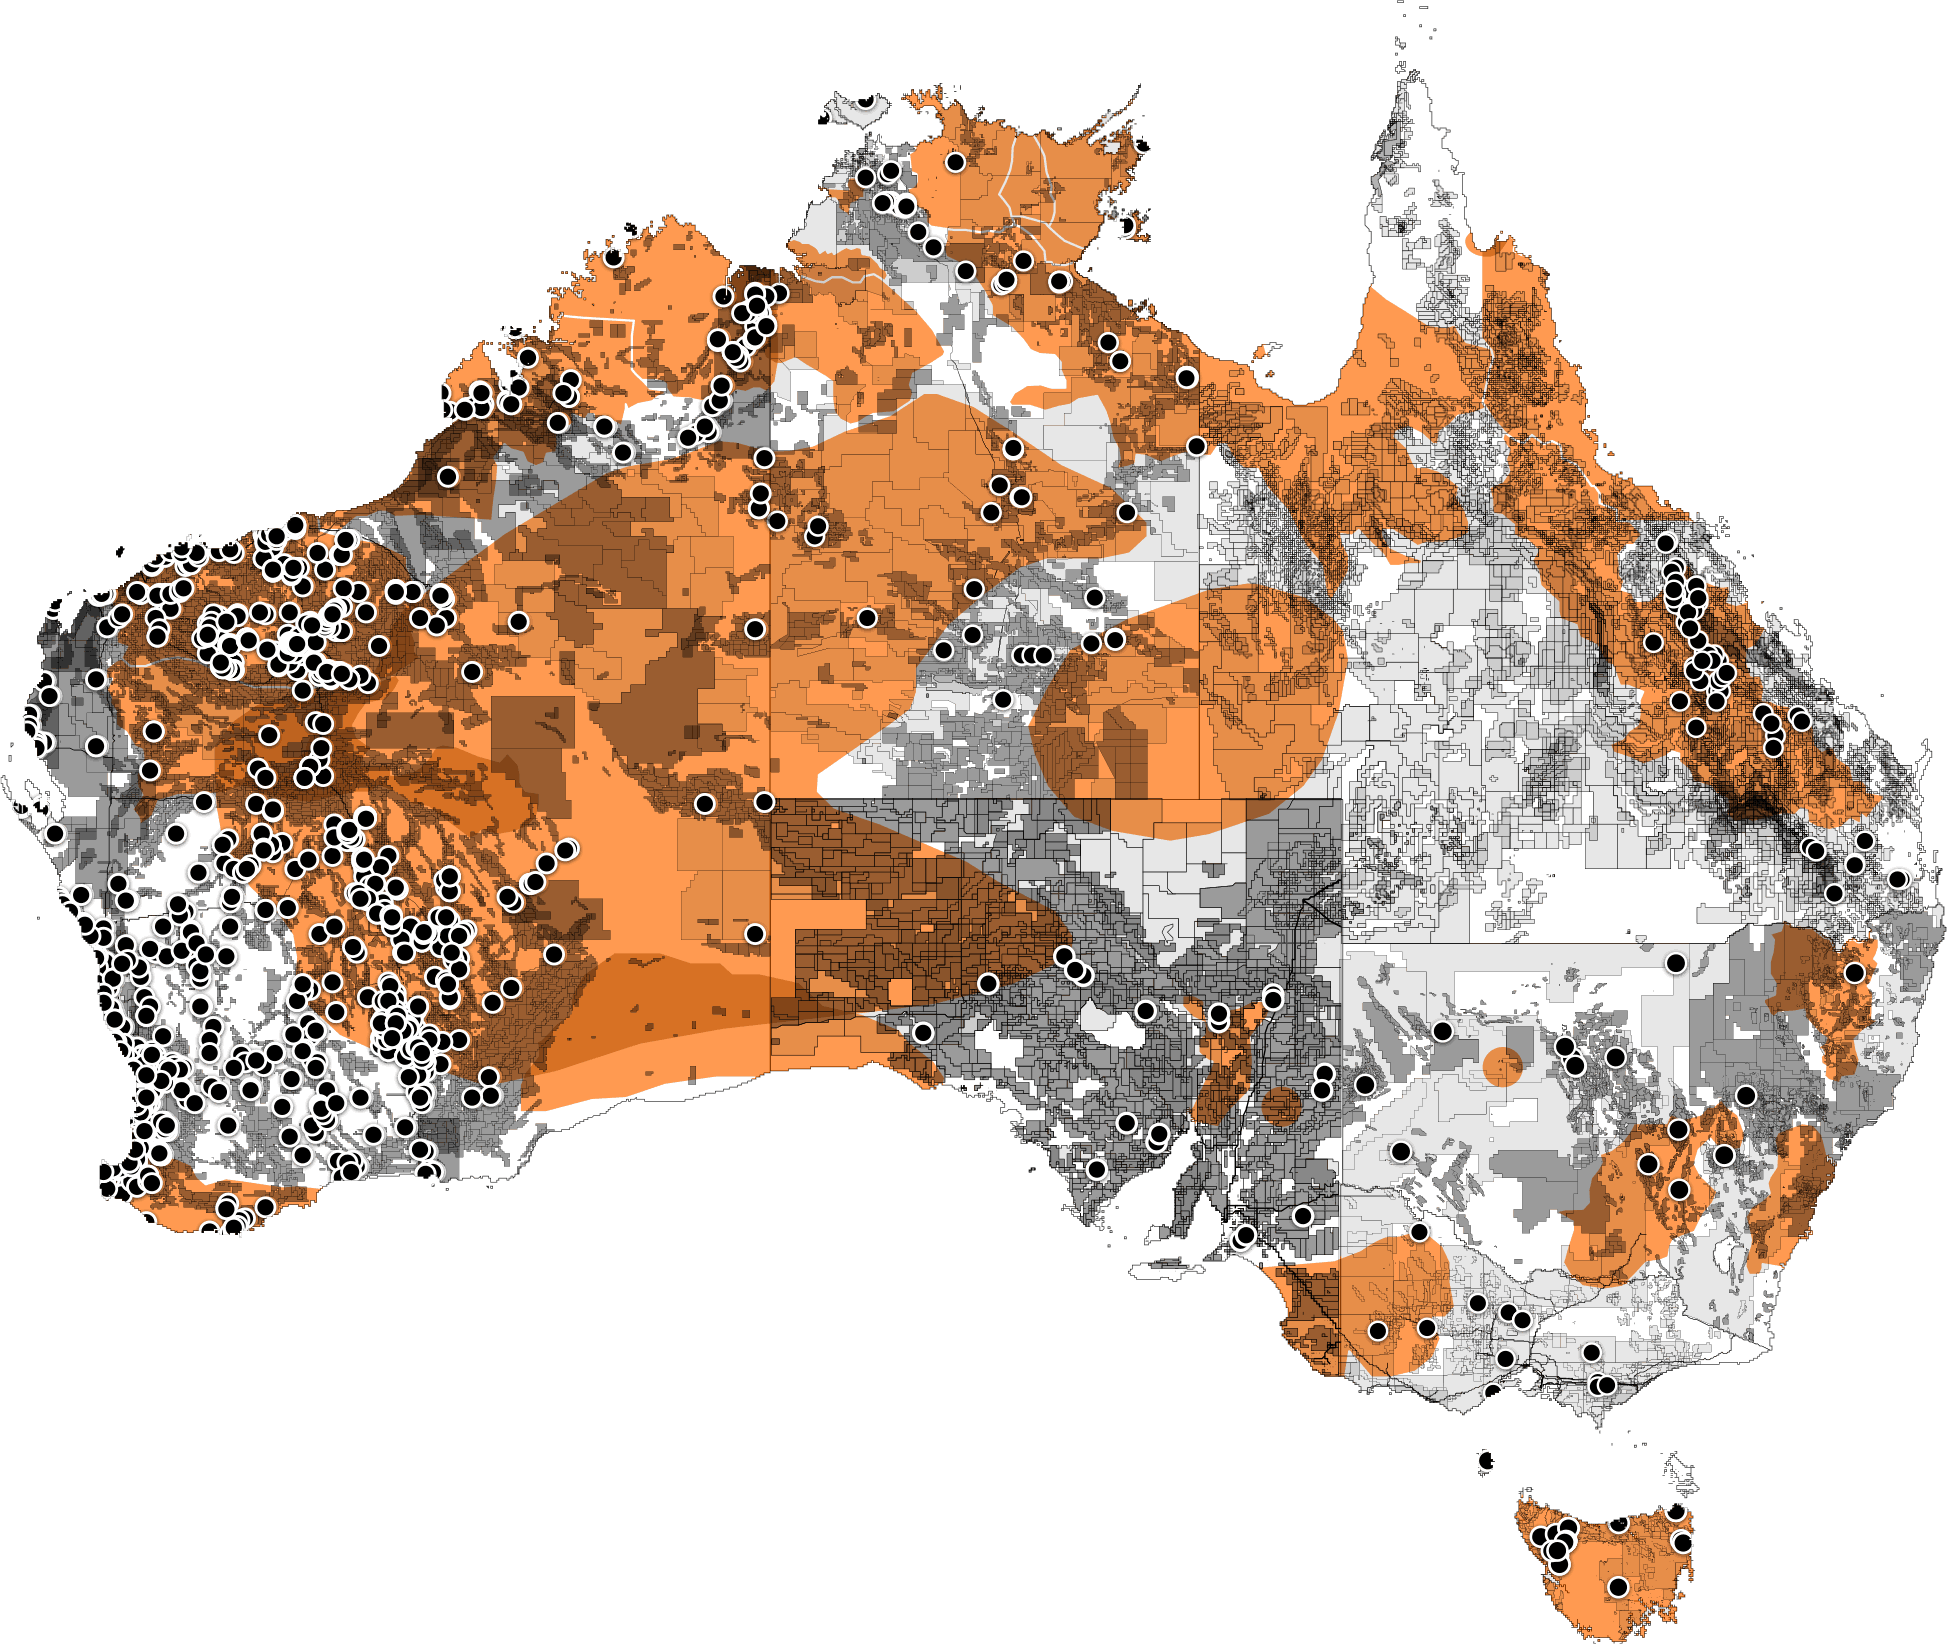
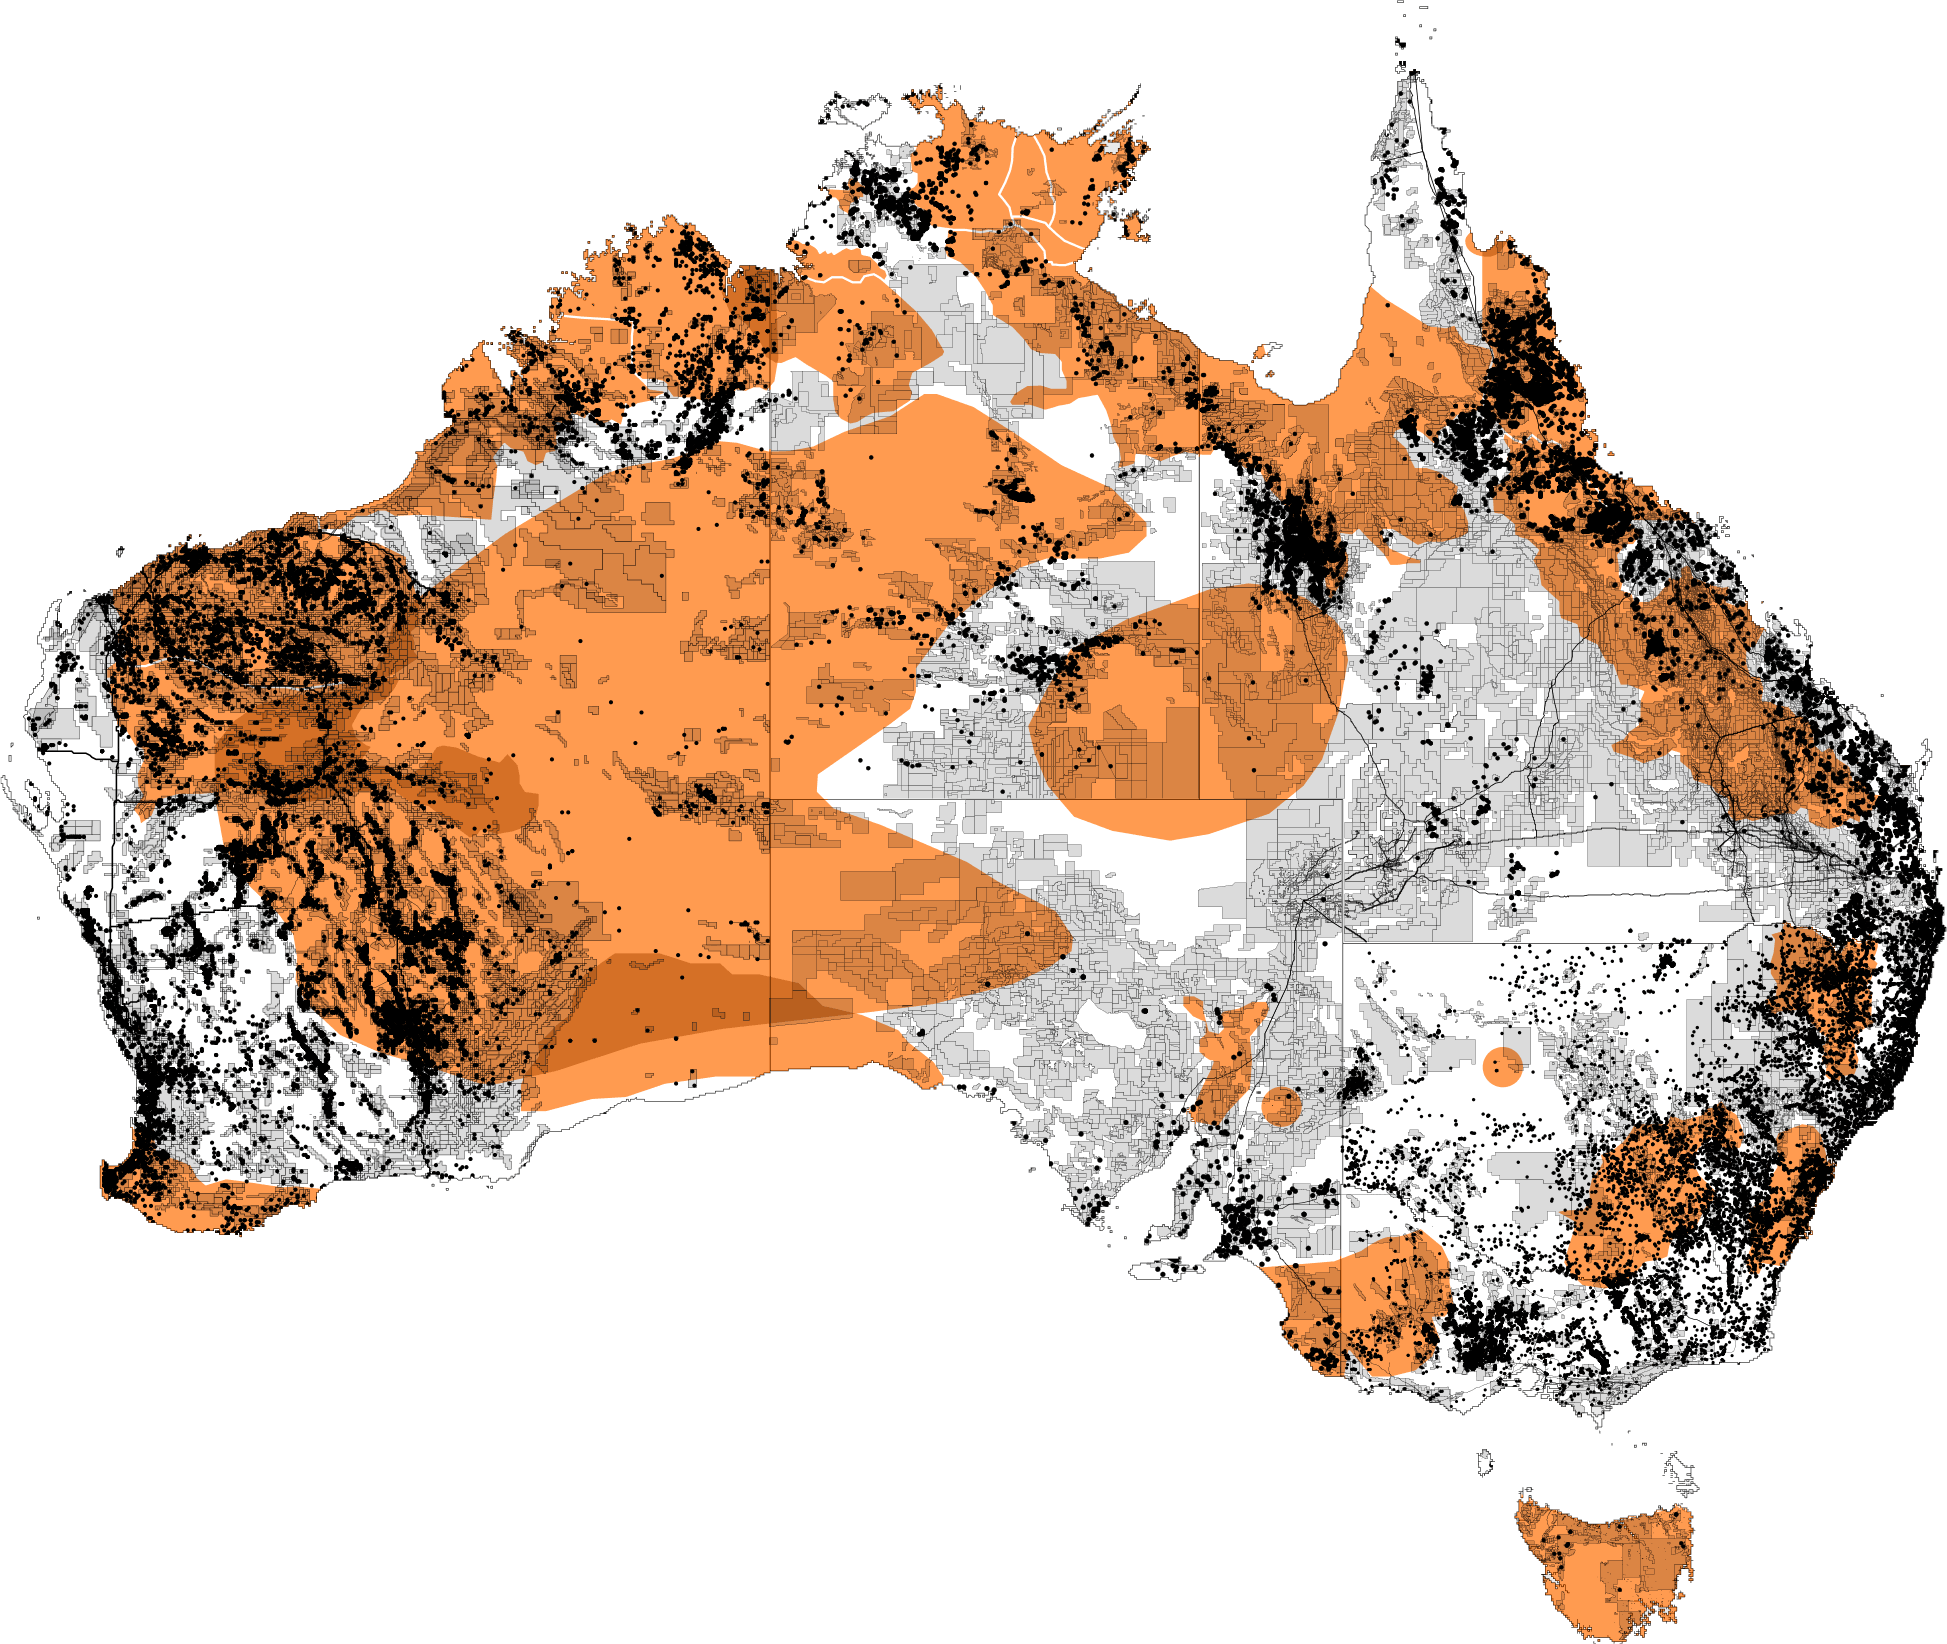
New maps, some tweaks

Changed region(s): [[0.0, 0.031, 1.0, 0.8686], [0.7704, 0.8996, 0.8937, 0.9927]]

diff --git a/app/index.html b/app/index.html
@@ -62,7 +62,10 @@
           <div class="container">
             <div class="row">
               <div class="span12 slider-content">
-                <h2>Rock art regions of Australia</h2>
+                <div class="rock-art-overlay">
+                  <h2>Rock art regions of Australia</h2>
+                  <h3>Overlapping areas indicate...?</h3>
+                </div>
                 <img src="/images/map-rock-art.png" alt="A map of Australian Rock art regions" class="map">
               </div>
             </div>
@@ -100,7 +103,7 @@
         <div class="map-legend">
           <ul>
             <li class="rock-art">Rock Art Areas <sup><a href="">1</a></sup></li>
-            <li class="mines">Mines <sup><a href="">2</a></sup></li>
+            <li class="mines">Mines &amp; Deposits <sup><a href="">2</a></sup></li>
             <li class="pipes">Pipelines <sup><a href="">3</a></sup></li>
             <li class="leases">Leases and Licenses <sup><a href="">4</a></sup></li>
           </ul>
@@ -121,10 +124,10 @@
       <p>Due to the inconsistencies in the data available between states we have tried to limit what we displayed to what is common across data sets. We have not shown Application boundaries as they are not necessarily inidicative of actual mining activity.</p>
 
       <ol>
-        <li>Rock Art Areas: Includes ? </li>
-        <li>Mines: Includes all Operating Mines, Quarries, Known Deposits and ? </li>
-        <li>Pipelines: Includes all Petroleum, Liquids, and Gas pipelines.</li>
-        <li>Leases and Licences: Includes tenements, claims, leases, licenses etc ?</li>
+        <li><strong>Rock Art Areas:</strong> Includes ? </li>
+        <li><strong>Mines &amp; Deposits:</strong> Includes all Operating Mines, Quarries, Known Deposits and ? </li>
+        <li><strong>Pipelines:</strong> Includes all Petroleum, Liquids, and Gas pipelines.</li>
+        <li><strong>Leases and Licences:</strong> Includes tenements, claims, leases, licenses etc ?</li>
       </ol>
 
       <h4>Sources of mining data</h4>

diff --git a/app/styles/responsive.less b/app/styles/responsive.less
@@ -13,11 +13,14 @@
           margin-top: 70px;
         }
       &.left {
-        h2 {
-            top:20px;
-            width: 240px;
-            margin-left: 0;
-          }
+        .rock-art-overlay {
+          top:20px;
+          width: 240px;
+          margin-left: 0;
+          h2 {
+
+            }
+        }
       }
       &.right {
         .mines-overlay {
@@ -86,11 +89,14 @@
       .slider-side {
 
         &.left {
-          h2 {
-              .font-size(18);
-              width: 140px;
-              margin-left: 0;
-              left: 20px;
+          .rock-art-overlay {
+            width: 140px;
+                margin-left: 0;
+                left: 20px;
+            h2 {
+                .font-size(18);
+
+              }
             }
         }
         &.right {

diff --git a/app/styles/rock-art.less b/app/styles/rock-art.less
@@ -44,12 +44,21 @@
       width: 65%;
       .box-shadow(0 0 12px rgba(0,0,0,0.5),1px 0 0 rgba(0,0,0,0.2));
 
-      h2 {
+      .rock-art-overlay {
+        position: absolute;
         width: 140px;
         top: 90px;
         left: 40px;
         color: white;
         margin-left: 20px;
+
+          h2 {
+            position: relative;
+          }
+
+          h3 {
+            .font-size(11);
+          }
       }
     }
 
